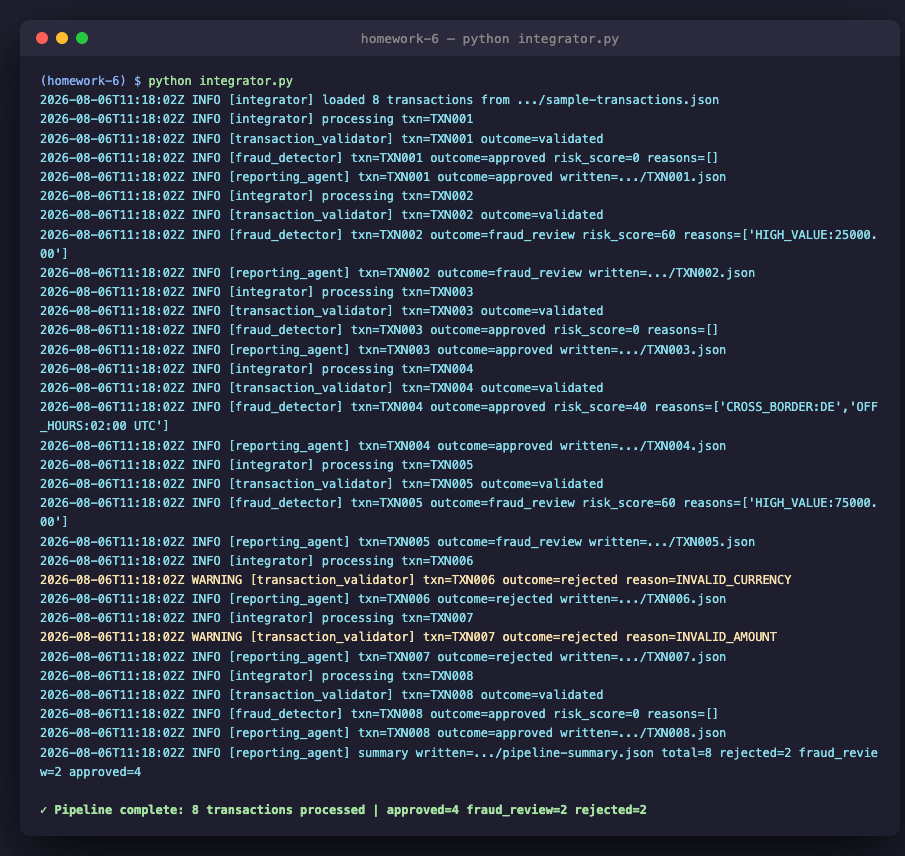
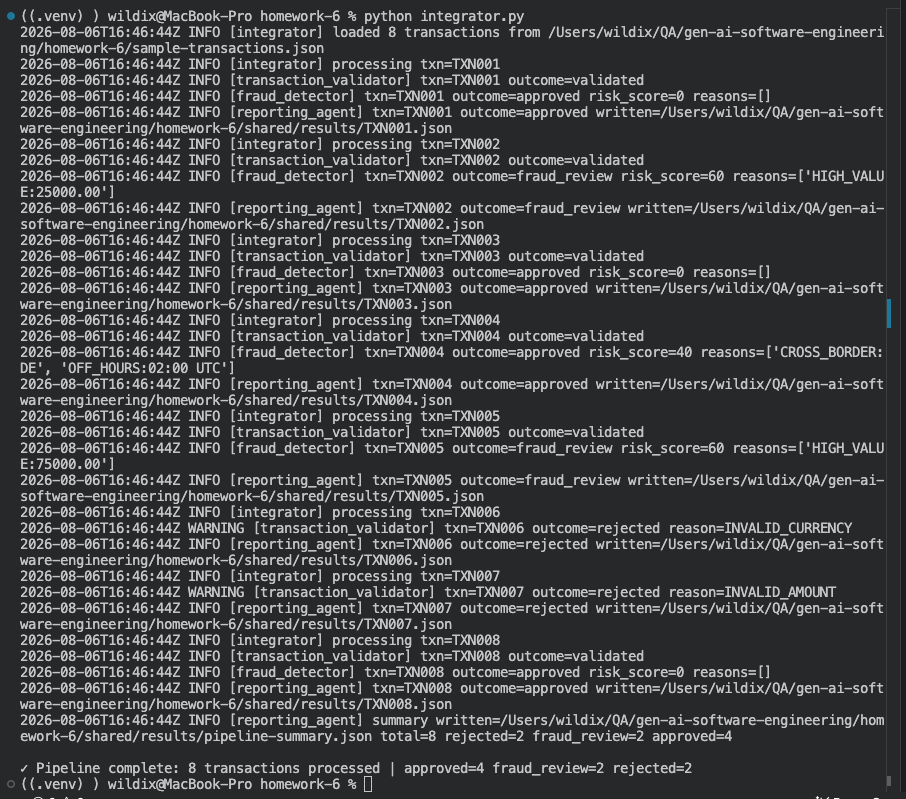
Restore real test files, fix MCP path, update evidence screenshots
- Fix tests restored: three test files were accidentally committed as
  .py.bak stubs during a coverage-gate hook demo; suite is back to
  86 passed / 99.52% coverage.
- Fix .cursor/mcp.json pipeline-status path: removed a duplicated
  homework-6 path segment now that workspaceFolder resolves to the
  homework-6 workspace root.
- Replace mockup screenshots with real Cursor captures: pipeline run,
  coverage, hook trigger, run-pipeline skill, and MCP interaction
  (split into two parts to cover both context7 and the custom
  pipeline-status tool call).
- Update research-notes.md context7 library ID to what context7
  actually returned (slash python slash cpython) instead of a
  non-existent library id.

diff --git a/homework-6/research-notes.md b/homework-6/research-notes.md
@@ -6,11 +6,11 @@ Documentation lookups performed via context7 MCP server during development of th
 
 ## Query 1: Python decimal module for monetary arithmetic
 
-- **Search**: "Python decimal module monetary arithmetic ROUND_HALF_UP"
-- **context7 library ID**: `/python/decimal`
+- **Search**: "Use context7 to look up the Python decimal module documentation for monetary arithmetic" → `resolve-library-id` for "Python's decimal module documentation"
+- **context7 library ID**: first resolve attempt returned no match for the standard-library `decimal` module (only third-party `decimal` packages in Go/Elixir/JS, or unrelated hits) — re-resolved against "Python standard library documentation" instead, which returned `/python/cpython` (official CPython source, 36,847 code snippets, "High" source reputation, benchmark score 81.55) as the correct match, alongside a lower-signal alternative `/websites/python_3`. Used `/python/cpython`.
 - **Applied**: Used `decimal.Decimal` throughout `transaction_validator.py` and `fraud_detector.py` for all amount comparisons. Replaced every `float` comparison with `Decimal(str(raw["amount"]))` to avoid IEEE 754 floating-point drift. Applied `Decimal("10000")` as the exact fraud threshold, ensuring `9999.99 < 10000 < 10000.01` comparisons are always correct. The `str()` conversion before `Decimal()` prevents issues when values come in as Python `float` from JSON parsing.
 
-**Key insight**: Always convert via `str()` first — `Decimal(1500.00)` produces `Decimal('1499.9999...')` due to float representation, but `Decimal("1500.00")` is exact.
+**Key insight**: Always convert via `str()` first — `Decimal(1500.00)` produces `Decimal('1499.9999...')` due to float representation, but `Decimal("1500.00")` is exact. Also: `decimal` has no dedicated context7 library of its own — it's documented as part of the general `/python/cpython` library, so resolving by module name alone can fail and you need to fall back to resolving the parent language/stdlib.
 
 ---
 
